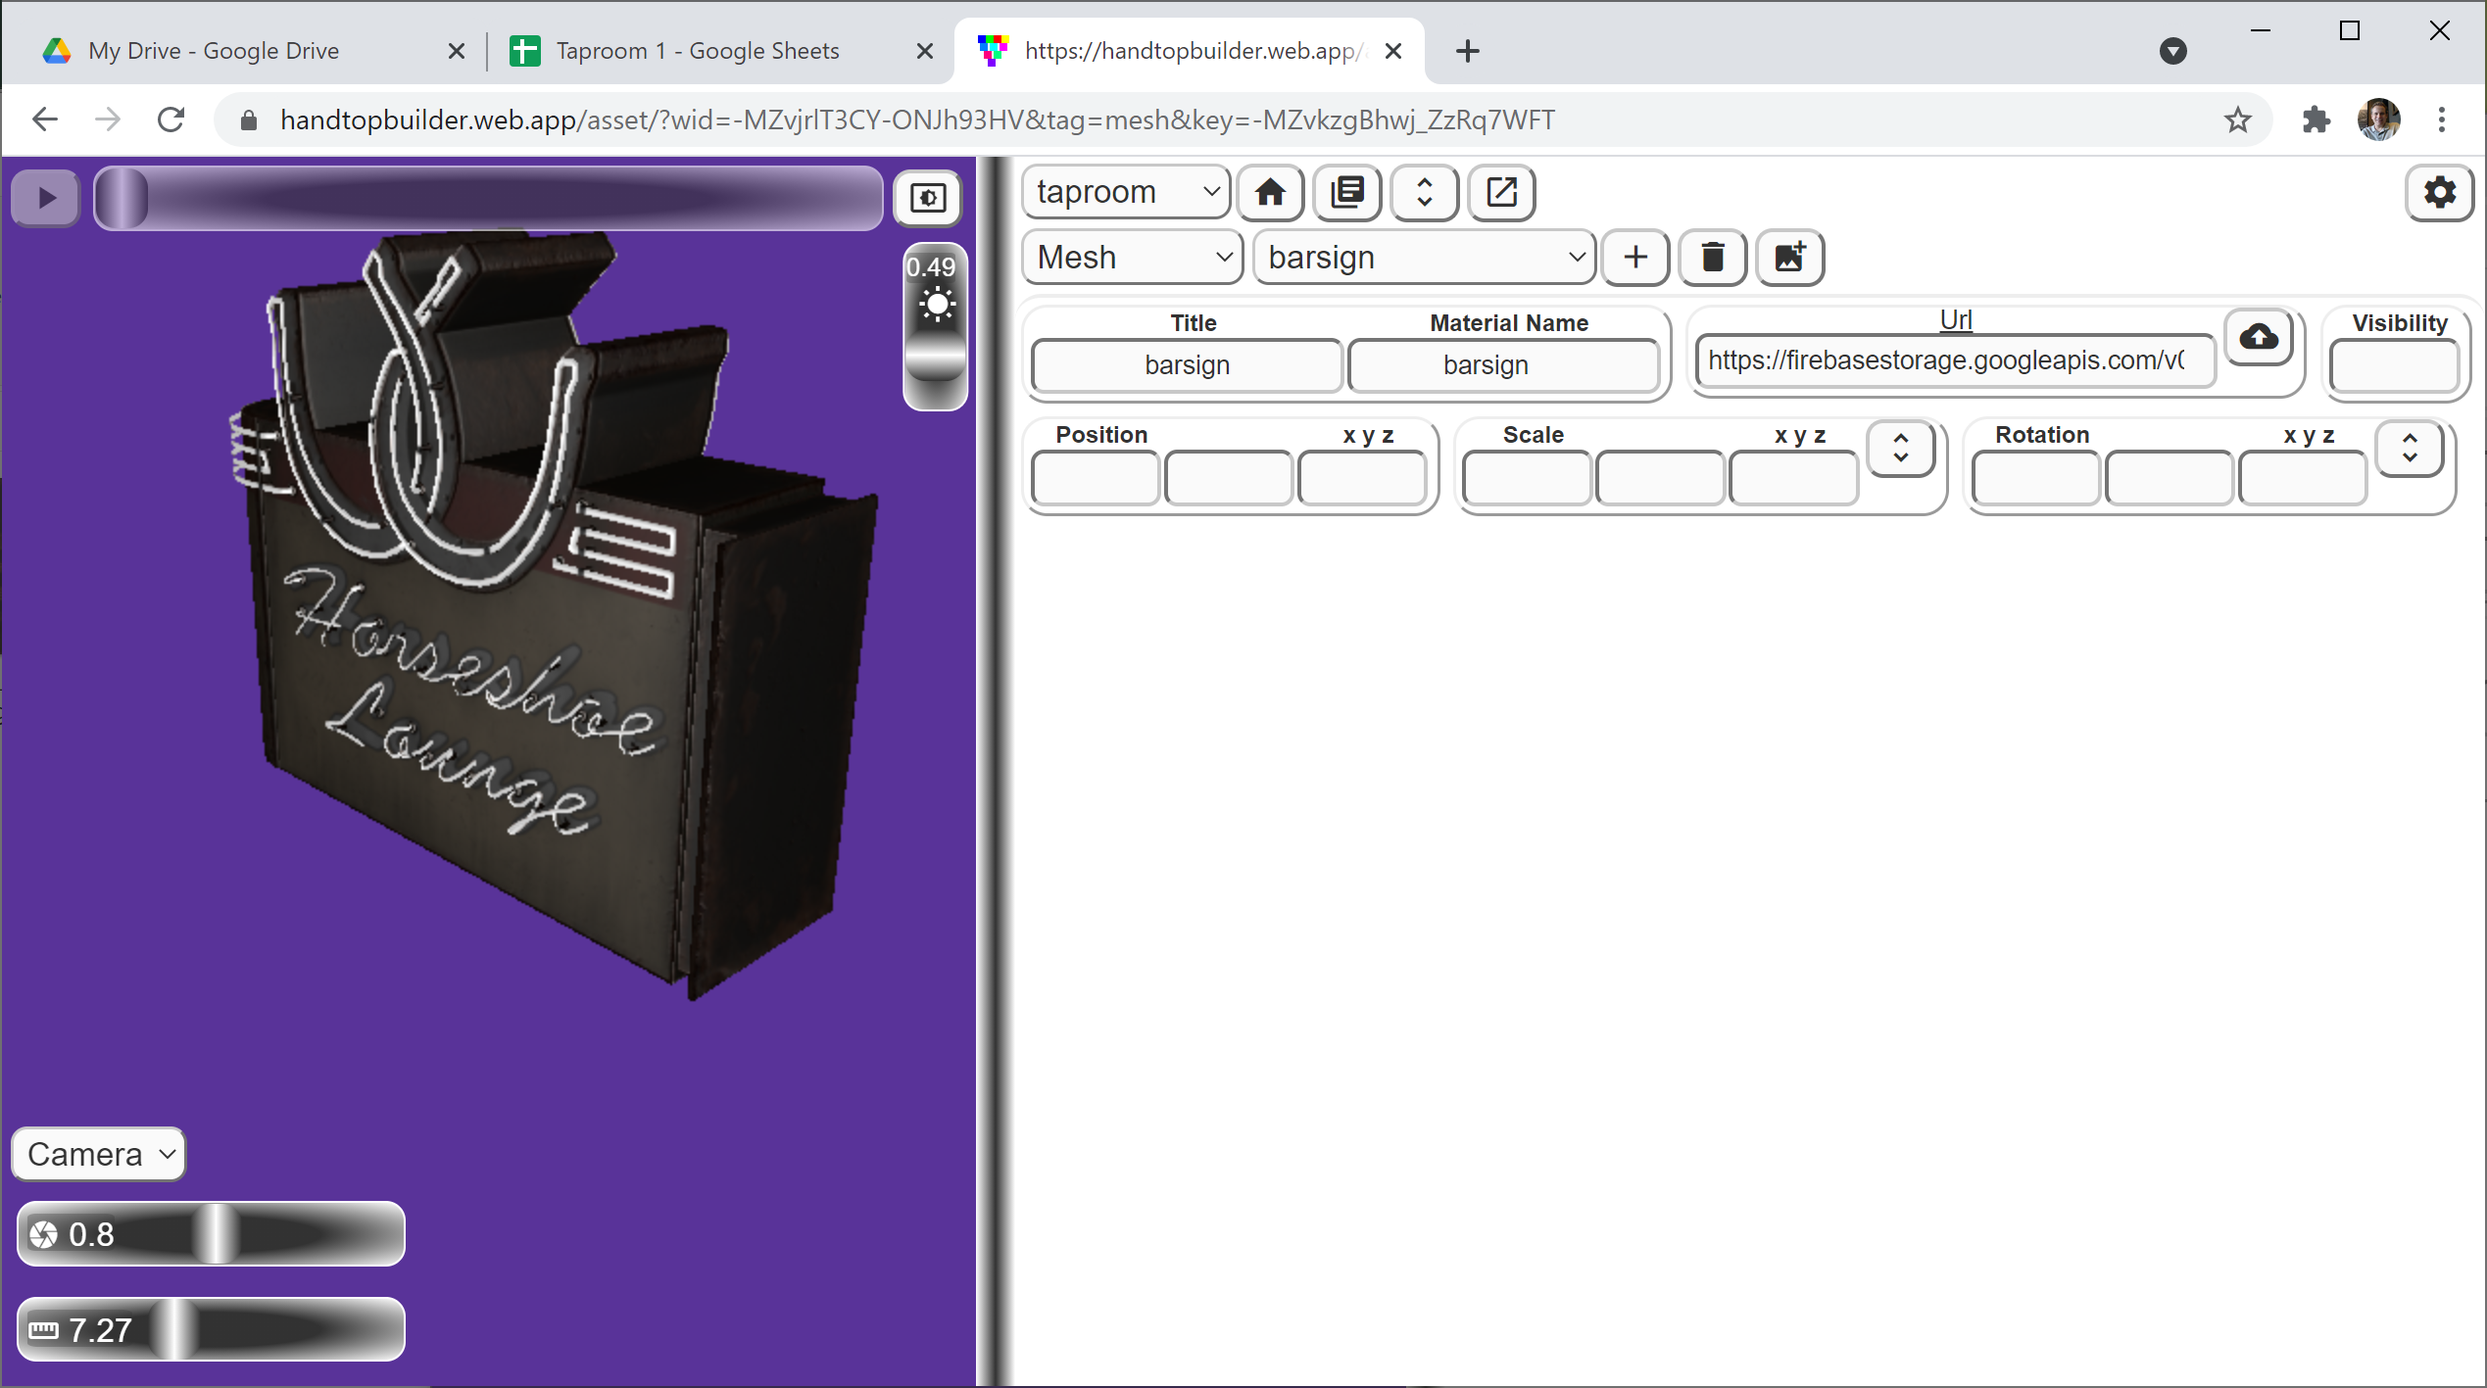
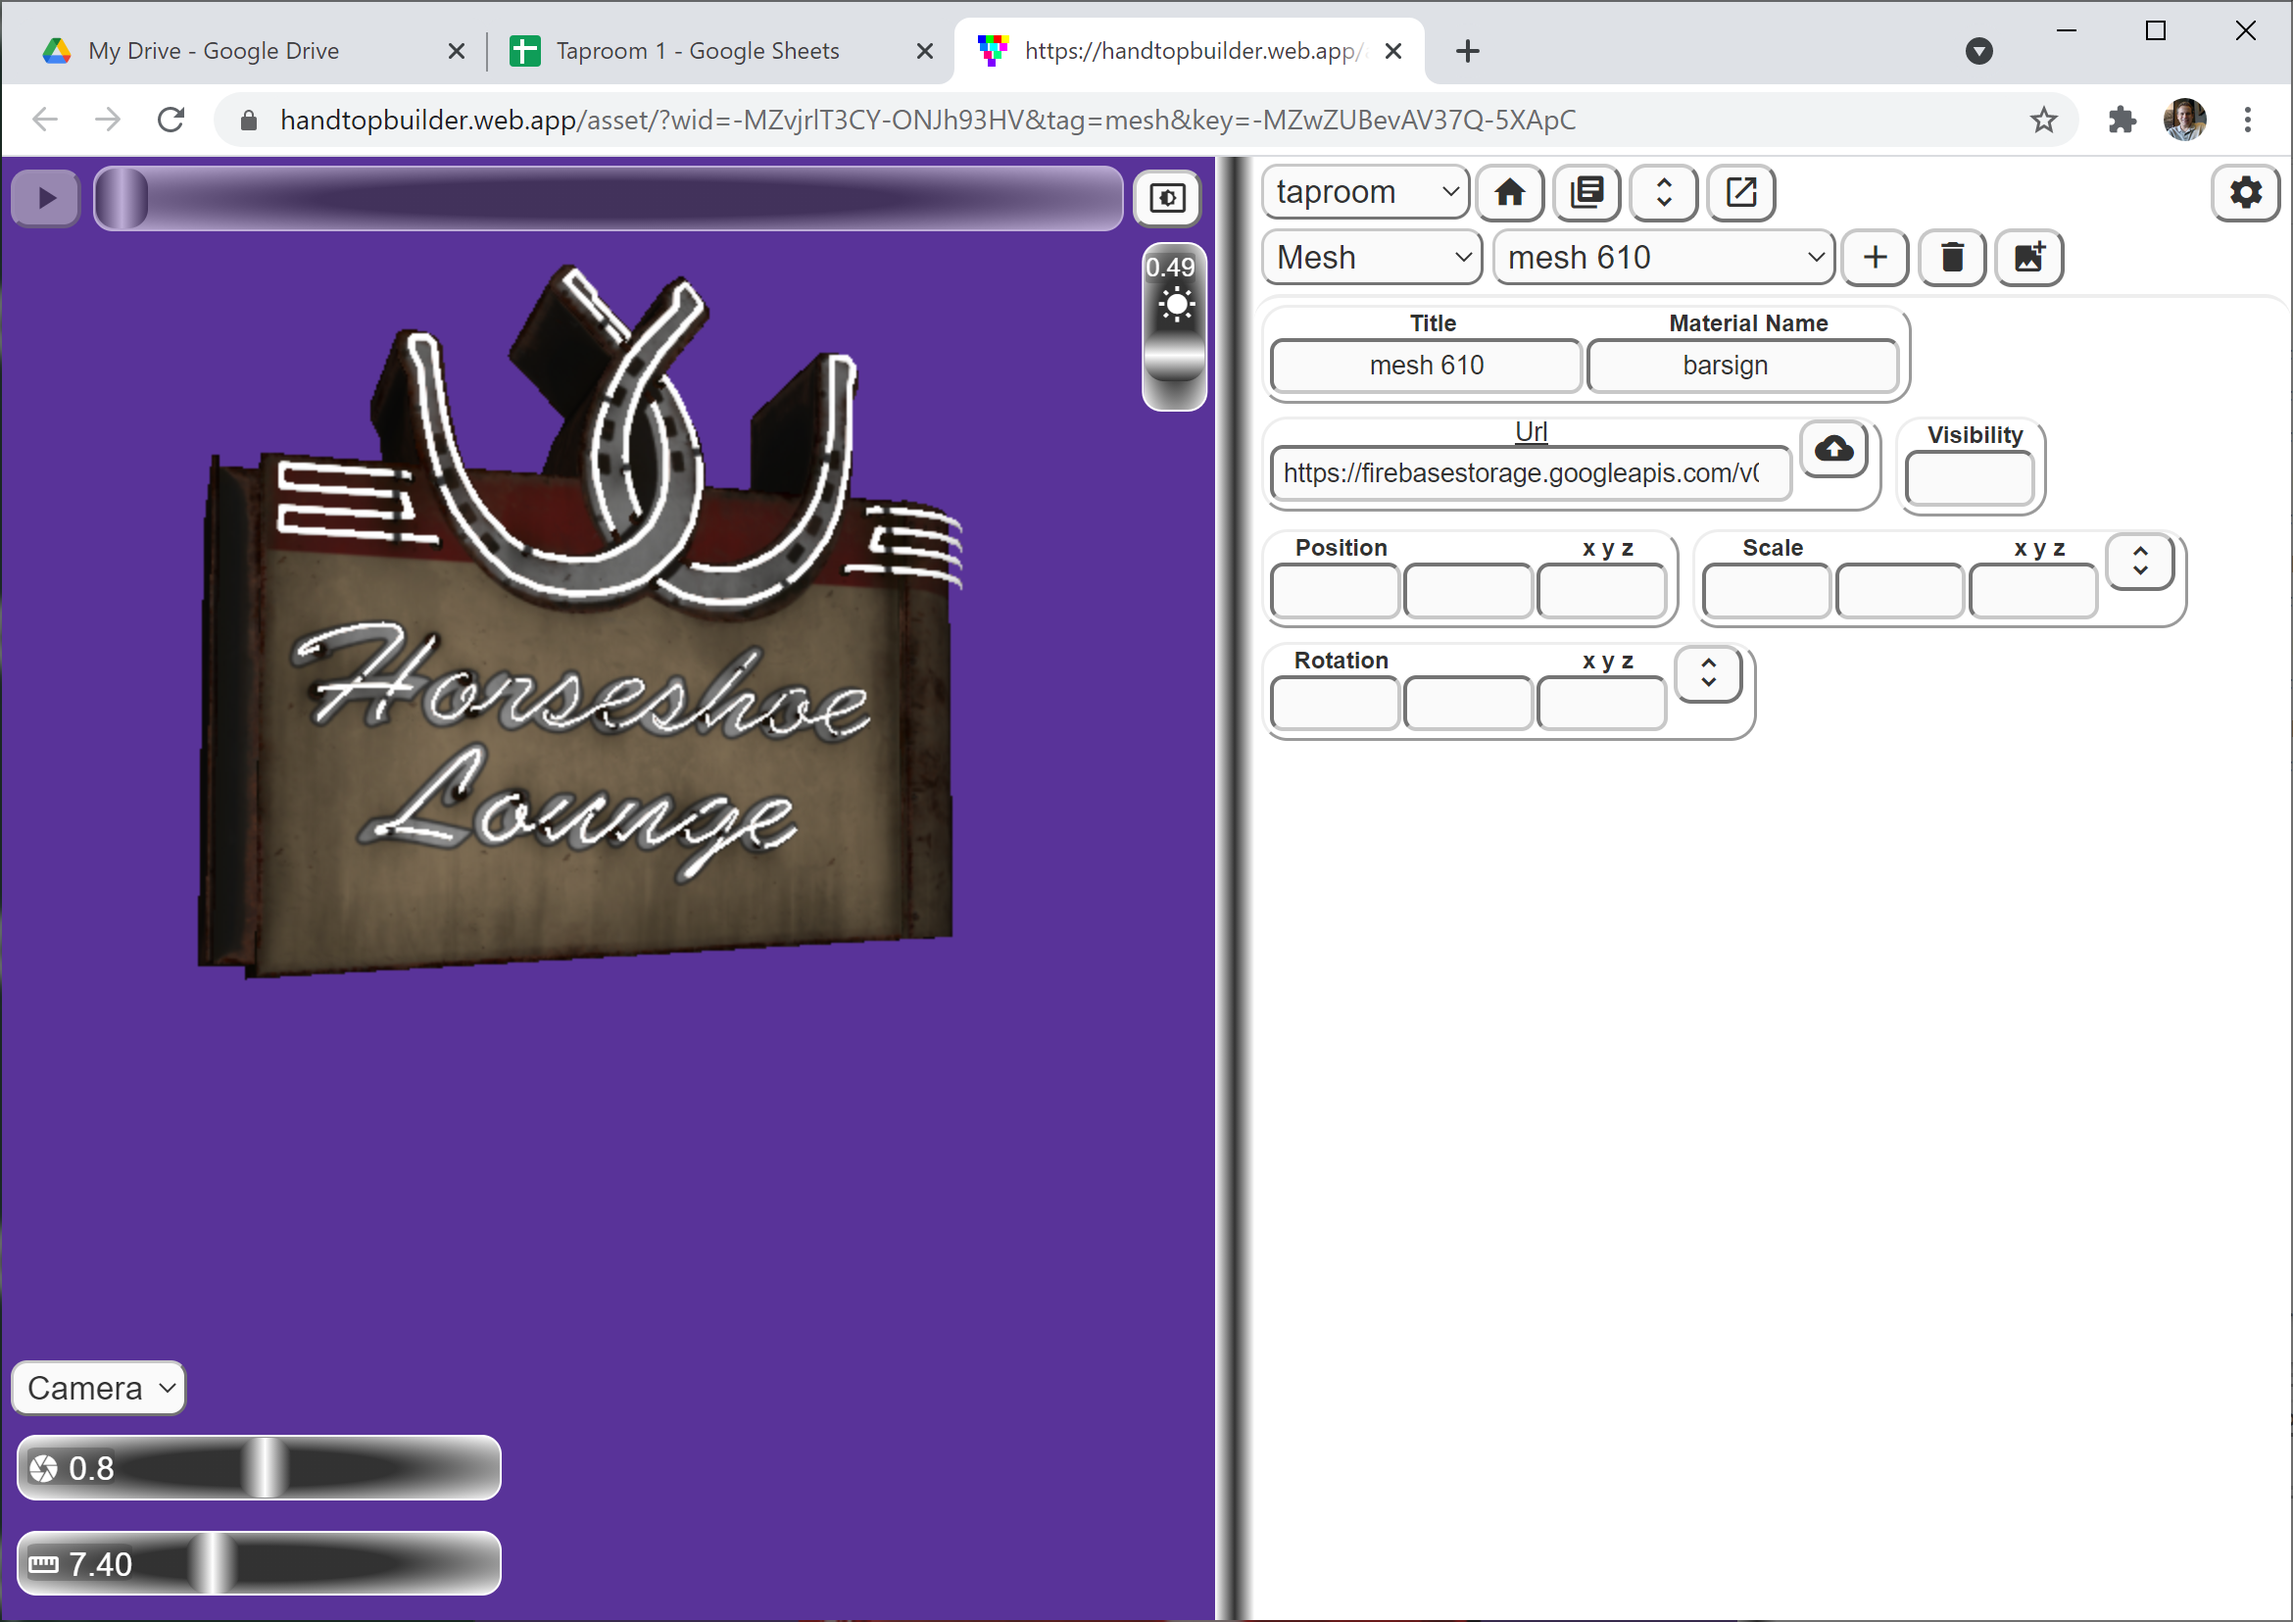
iteration

diff --git a/public/docraw/importunityassetshelp.html b/public/docraw/importunityassetshelp.html
@@ -56,7 +56,7 @@ Final Result in webGL<br>
 <img alt="Result Mesh and Material" src="https://handtop.com/docimages/importedmeshandmatresult.png">
 <br>
 Result Files<br>
-The emissive texture is used for both spectral and emissive - as the spectral texture is very very
+The diffuse texture is used for spectral also to brighten up the model - as the spectral texture is very very
 large in these models and the emissive does "good enough" without the huge size.<br>
 <img alt="Result Mesh and Material" src="https://handtop.com/docimages/meshandmaterialfiles.png">
 
